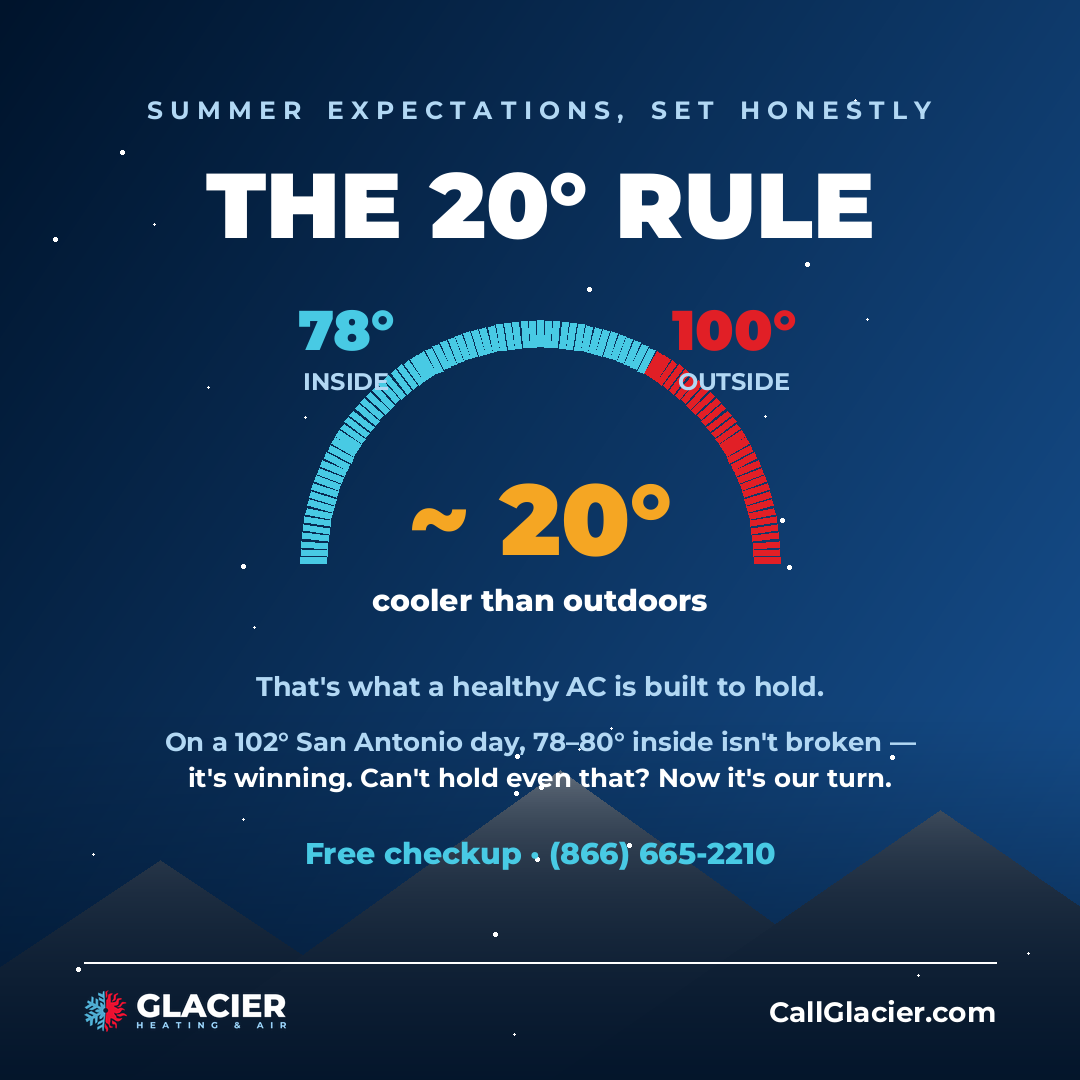
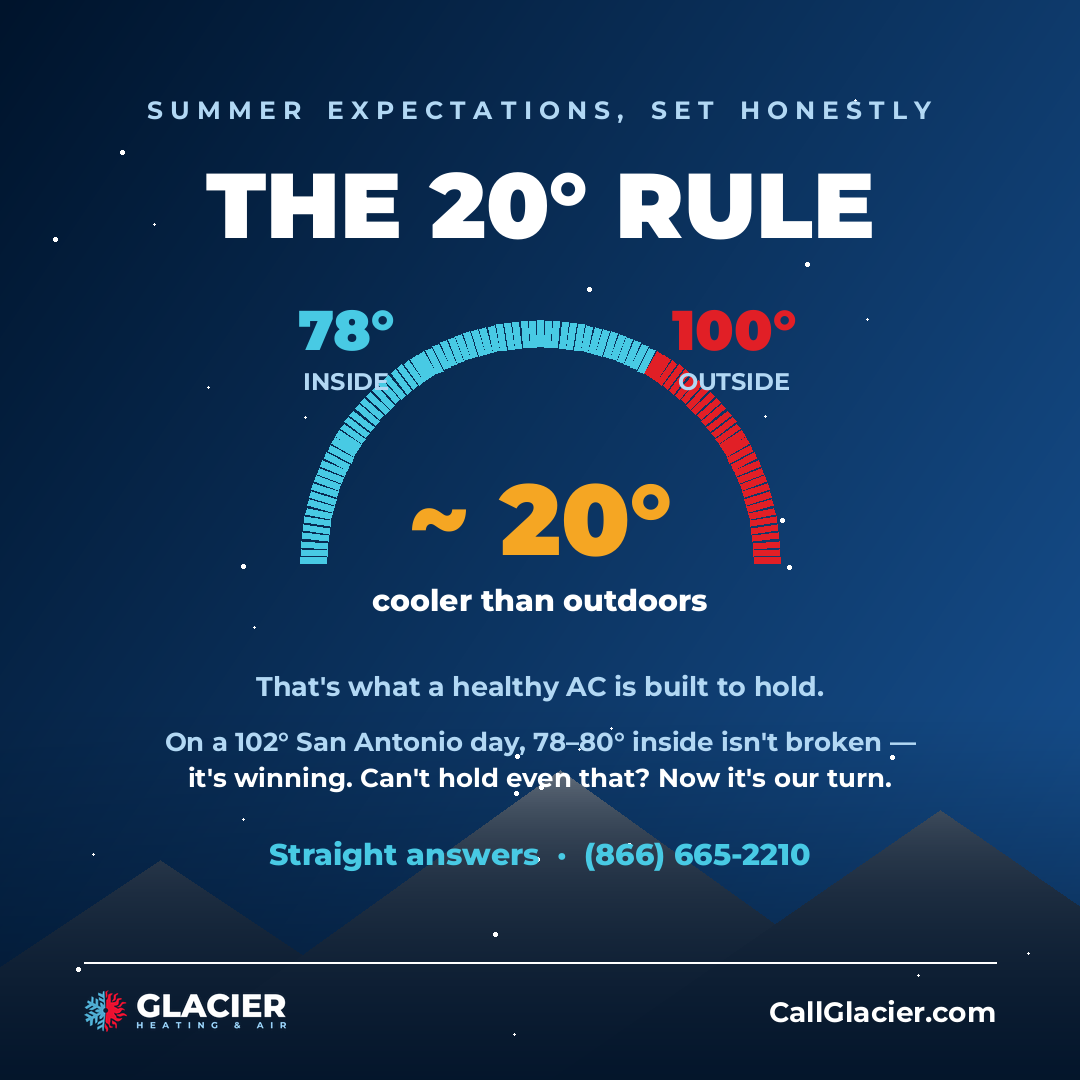
Post 15: remove free-checkup offer, replace with straight-answers line
Claude-Session: https://claude.ai/code/session_0176LFk56ELEVayoECBSNudw

Changed region(s): [[0.2444, 0.7639, 0.7639, 0.825]]

diff --git a/glacier-site/scratchpad/make_posts4.py b/glacier-site/scratchpad/make_posts4.py
@@ -190,7 +190,7 @@ center(d,"cooler than outdoors",f("ExtraBold",30),600,(255,255,255,255))
 center(d,"That's what a healthy AC is built to hold.",f("Bold",27),688,ICE2)
 center(d,"On a 102° San Antonio day, 78–80° inside isn't broken —",f("Bold",26),744,ICE2)
 center(d,"it's winning. Can't hold even that? Now it's our turn.",f("Bold",26),780,(255,255,255,255))
-center(d,"Free checkup · (866) 665-2210",f("ExtraBold",30),856,TURQ)
+center(d,"Straight answers  ·  (866) 665-2210",f("ExtraBold",30),856,TURQ)
 img=footer(img); img.convert("RGB").save("scratchpad/post15-rule20.png")
 
 # ============ POST 16 — 5-MINUTE CHECK (light) ============
